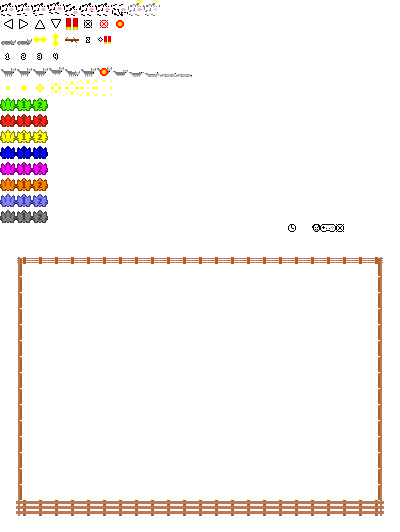
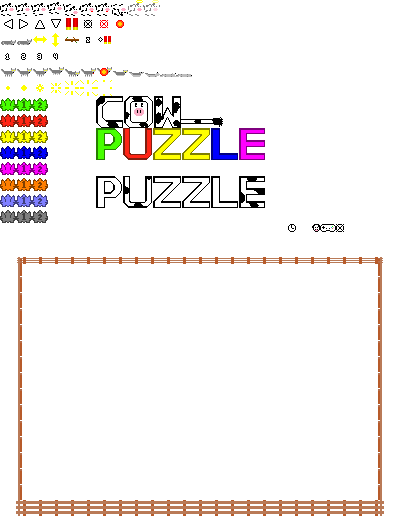
Title Screen Added
May 26, 2022
Changes:
-title screen added
-changed background grass to green
-dynamic window scaling now reduces by a multiple of 1 (if calculated scaling is 3x, it will be reduced to 2x)

To Do:
-add game over
-balance game
-add sound
-add high-score
-anchor input events to canvas element and prevent window scrolling via arrow keys

Changed region(s): [[0.24, 0.1805, 0.66, 0.3008], [0.24, 0.3308, 0.66, 0.391]]

diff --git a/draw.js b/draw.js
@@ -1,5 +1,6 @@
 var cowLife = new sprite();
 var cowLifeWalk = [1, 3, 2, 3];
+var cowLifeEating = [4, 0, 5, 0, 6];
 var cowDeathY = 0;
 var wolfTrack = new sprite(320, 48);
 var wolfTrackSleep = [0, 1];
@@ -22,16 +23,138 @@ for(var i = 0; i < 3; i++) {
 }
 wolfTrack.spriteSet = 2;
 wolfTrack.spriteNumber = 0;
+//
 var shellGained = new sprite(wolfTrack.x, wolfTrack.y);
 shellGained.setCoord(wolfTrack.x, wolfTrack.y);
 shellGained.spriteSet = 2;
 shellGained.spriteNumber = 6;
+//
 var shellSpawn = new sprite(400,400);
 shellSpawn.spriteSet = 5;
 var spawnFrames = [0, 1, 2, 3, 4, 5, 6];
+//
+var titleCowO = new sprite(400,400);
+
 
 function drawTrackSetup() {
 
+}
+//*TITLE
+var puzzleScroll = -95;
+function drawTitle(img, state, x1 , y1, x2 = x1 - 22, y2 = y1 + 40) {
+	var t1x = 16 * 6, t1y = 16 * 6; //COW position on sprite sheet
+	//cow = 128x32
+	var cowPosition = [0, 28, 58, 76];
+	var cowLength  = [28, 30, 28, 42];
+	var t2x = 16 * 6, t2y = 16 * 8; //PUZZLE position on sprite sheet
+	//176x32              P   U   Z   Z   L    E
+	var puzzlePosition = [0, 27, 57, 86, 115, 143, 170];
+	var puzzleLength  = [27, 30, 29, 29, 28,  27, 6];
+
+	
+	//img.addQueue(0, t2x, t2y, 176, 32, x2, y2, 176, 32);
+	if(state === 1000) {
+		//cow
+		for(var i = 0; i < cowLength.length-1; i++) {
+			drawSprite(img, shellSpawn.spriteSet, shellSpawn.spriteNumber, x1 + cowPosition[i] + Math.round(cowLength[i]/2)-8, y1 + 8);
+		}
+		//puzzle
+		for(var i = 0; i < puzzlePosition.length-1; i++) {
+			var offset;
+			if(puzzleScroll <= -puzzlePosition[i+1]) {
+				offset = 170;
+			}
+			else {
+				offset = 0;
+			}
+			drawSprite(img, shellSpawn.spriteSet, shellSpawn.spriteNumber, x2 + puzzlePosition[i] + Math.round(puzzleLength[i]/2)-8 + puzzleScroll + offset, y2 + 8);
+		}
+	}
+	else {
+		img.addQueue(0, t1x, t1y, 128, 32, x1, y1, 128, 32);
+		/*
+		for(var i = 0; i < cowLength.length; i++) {
+			img.addQueue(0, t1x + cowPosition[i], t1y, cowLength[i], 32, x1 + cowPosition[i], y1, cowLength[i], 32);
+		}
+		*/
+		for(var i = 0; i < puzzlePosition.length-1; i++) {
+			var offset;
+			if(puzzleScroll <= -puzzlePosition[i+1]) {
+				offset = 170;
+			}
+			else {
+				offset = 0;
+			}
+			if((i === 2 || i === 3) && (state === 1005)){
+				drawSprite(img, shellSpawn.spriteSet, shellSpawn.spriteNumber, x2 + puzzlePosition[i] + Math.round(puzzleLength[i]/2)-8 + puzzleScroll + offset, y2 + 8);
+			}
+			else {
+				img.addQueue(0, t2x + puzzlePosition[i], t2y, puzzleLength[i], 32, x2 + puzzlePosition[i] + puzzleScroll + offset, y2, puzzleLength[i], 32);
+			}
+		}
+	}
+	//P 27 x 32
+	//U 30
+	//Z 29
+	//Z 29
+	//L 28
+	//E 27
+	//blank 6
+}
+function drawTitleCow(img, x, y) {
+	img.drawRect(x, y, 16, 16, 0, 255, 255, 255);
+	
+	drawSprite(img, cowLife.spriteSet, cowLife.spriteNumber, cowLife.x, cowLife.y);
+}
+function setTitleCow(x, y) {
+	cowLife.x = x;
+	cowLife.y = y;
+}
+function moveTitleCow(x, y) {
+	shellSpawn.stopAnimation();
+	cowLife.animate(cowLifeWalk, 4);
+	return cowLife.moveTo(x, y, 1);
+}
+function eatTitleCow() {
+	sf = spawnFrames.slice();
+	sf.push(sf[sf.length-1]+1);
+	shellSpawn.animate(sf, 1, 0, 0);
+	if(cowLife.animate(cowLifeEating, 4, 1, 2) === 2) {
+		cowLife.stopAnimation();
+		return 2;
+	}
+	return 0;
+}
+function spawnTitle(img, x1 , y1, x2 = x1 - 22, y2 = y1 + 40) {
+
+	/*
+	for(var i = 0; i < puzzleLength.length-1; i++) {
+		drawSprite(img, shellSpawn.spriteSet, shellSpawn.spriteNumber, x2 + puzzlePosition[i] + Math.round(puzzleLength[i]/2)-8, y2 + 8);
+	}
+	*/
+	/*if(!shellSpawn.animate(spawnFrames, 0, 0, 0)) {
+		//drawSprite(img, shellSpawn.spriteSet, shellSpawn.spriteNumber, shellSpawn.x, shellSpawn.y);
+	}*/
+	return shellSpawn.animate(spawnFrames.slice().reverse(), 2, 0, 0);
+}
+function shiftTitlePuzzle() {
+	if(puzzleScroll < 0) {
+		puzzleScroll += 2;
+	}
+	if(puzzleScroll >= 0) {
+		puzzleScroll = 0;
+		return true;
+	}
+	return false;
+}
+function setPuzzleScrollState(input) {
+	//reset
+	if(input) {
+		puzzleScroll = -95;
+	}
+	else {
+		puzzleScroll = 0;
+	}
 }
 
 //*GENERAL DRAW SPRITES FUNCTION
@@ -310,6 +433,8 @@ function drawGrassOut(img, grs = 1) {
 		drawSprite(img, 6+i, 0, 352, 48 + (16*i));
 	}
 }
+
+
 /*
 //Draw a word using sprites
 void drawword(char *str, byte align, int x, int y)

diff --git a/testbed.js b/testbed.js
@@ -81,7 +81,8 @@ testGrid.cowSet(3,3);
 
 var trackActive = true;
 
-var gameState = 0;
+var titleCounter = 0;
+var gameState = 1000;
 var moveX = 0;
 var moveY = 0;
 var shiftR = 0;
@@ -292,6 +293,68 @@ var entry = setInterval(function(){
 					gameState = 0;
 				}
 				break;
+			//TITLE STATE
+			case 1000: //title appear
+				if(spawnTitle()) {
+					gameState = 1001;
+				}
+				for(var i = 0; i < inputKeys.length; i++) {
+					if((inputPushed[i] === 1) && (inputKeys[i] == " ")) {
+						//console.log("Pressed");
+						gameState = 1003;
+						setPuzzleScrollState(false);
+					}
+				}
+				break;
+			case 1001: //pause for a little bit after title appears
+				titleCounter += 1;
+				if(titleCounter > 25 * 2){
+					gameState = 1002;
+					titleCounter = 0;
+				}
+				for(var i = 0; i < inputKeys.length; i++) {
+					if((inputPushed[i] === 1) && (inputKeys[i] == " ")) {
+						//console.log("Pressed");
+						gameState = 1003;
+						setPuzzleScrollState(false);
+					}
+				}
+				break;
+			case 1002: //shift "puzzle" to correct it
+				if(shiftTitlePuzzle()) {
+					gameState = 1003;
+				}
+				for(var i = 0; i < inputKeys.length; i++) {
+					if((inputPushed[i] === 1) && (inputKeys[i] == " ")) {
+						//console.log("Pressed");
+						gameState = 1003;
+						setPuzzleScrollState(false);
+					}
+				}
+				break;
+			case 1003: //default state
+				titleCounter += 1;
+				if(titleCounter > 1000) {
+					titleCounter = 0;
+				}
+				for(var i = 0; i < inputKeys.length; i++) {
+					if((inputPushed[i] === 1) && (inputKeys[i] == " ")) {
+						//console.log("Pressed");
+						gameState = 1004;
+						setTitleCow(144+35, 64+7);
+					}
+				}
+				break;
+			case 1004: //when space is pressed, cow exits "O" to eat "zz". start game when animation finished
+				if(moveTitleCow(144+35, 64+7+22)) {
+					gameState = 1005;
+				}
+				break;
+			case 1005:
+				if(eatTitleCow() === 2) {
+					gameState = 0;
+				}
+				break;
 			default:
 				break;
 		}
@@ -350,8 +413,10 @@ var entry = setInterval(function(){
 		
 		drawShells(img, testGrid.shells);
 		drawGainShells(img, testGrid.shells);
+		drawWord(img, "ammo", 41, 29); 
 		//DRAW GRASS OUT
 		drawGrassOut(img, testGrid.grassesActive);
+		drawWord(img, "next", 43, 5);
 		/*
 		drawSprite(img, 6, 0, 352, 48);
 		for(var i = 0; i < 8; i++) {
@@ -411,7 +476,22 @@ var entry = setInterval(function(){
 			clearInterval(entry);
 		}
 		*/
-		testGrid.drawGrid(img, gridX, gridY);
+		
+		//testGrid.drawGrid(img, gridX, gridY);
+		if(gameState < 1000) {
+			testGrid.drawGrid(img, gridX, gridY);
+		}
+		if(gameState >= 1000) {
+			drawTitle(img, gameState, 144, 64);
+		}
+		if(gameState === 1003) {
+			if(Math.floor(titleCounter / 25) % 2 === 0) {
+				drawWord(img, "press space", 19, 20);
+			}
+		}
+		if(gameState >= 1004) {
+			drawTitleCow(img, 144+35, 64+7);
+		}
 		
 		img.draw();
 		img.clearQueue();

diff --git a/sprite.js b/sprite.js
@@ -22,6 +22,7 @@ class sprite {
 		this.x = x;
 		this.y = y;
 	}
+	//returns 1 if animation ended, 2 if looped specified amount
     animate(animation, animationDelay = 0, loopFrame = 0, loopAmount = -1) { //higher animationDelay is slower, every x frame
         var isLastFrame = 0;
 		//console.log("BEFORE currentframe", this.currentFrame, "spritenumber", this.spriteNumber, "animation length", animation.length);

diff --git a/index.html b/index.html
@@ -2,8 +2,8 @@
 <html>
 <head>
   <meta charset="utf-8">
-  <meta name="description" content="cowgame browser game">
-  <title>Cowgame</title>
+  <meta name="description" content="Cow Puzzle browser game. Eat grass. Shoot wolves. Gain points. KB only at the moment.">
+  <title>Cow Puzzle</title>
   <link rel="stylesheet" href="main.css">
   <!--Does not depend-->
   <script defer src="images.js"></script>

diff --git a/images.js b/images.js
@@ -50,6 +50,9 @@ class images {
 		if((dw === 0) || (dh === 0)) {
 			this.scaleFactor = 1;
 		}
+		if(this.scaleFactor > 1) {
+			this.scaleFactor -= 1;
+		}
 		this.canv.width = this.width * this.scaleFactor;
 		this.canv.height = this.height * this.scaleFactor;
 		this.ctx.imageSmoothingEnabled = this.smoothing;

diff --git a/main.css b/main.css
@@ -1,6 +1,6 @@
 canvas { 
-	/*background: #00FF00; */
-	background: #CCAA00;
+	background: #00FF00;
+	/*background: #CCAA00;*/
 	image-rendering: pixelated;
 	/*transform: scale(1);*/
 	display: block;
